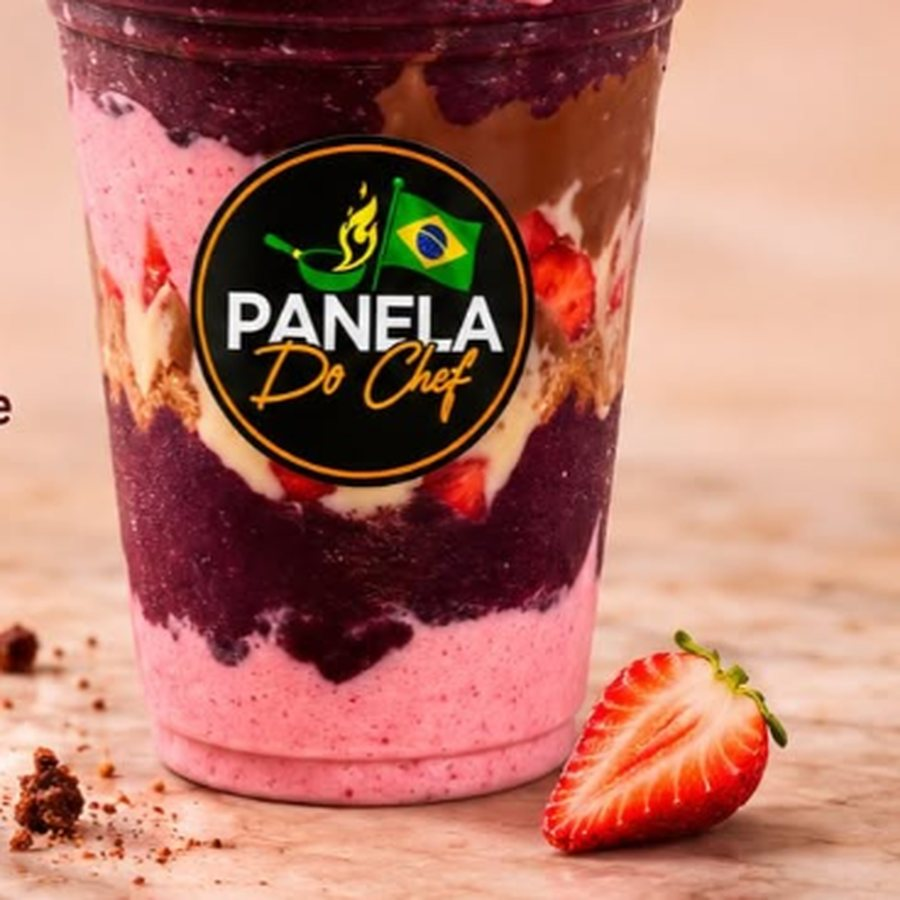
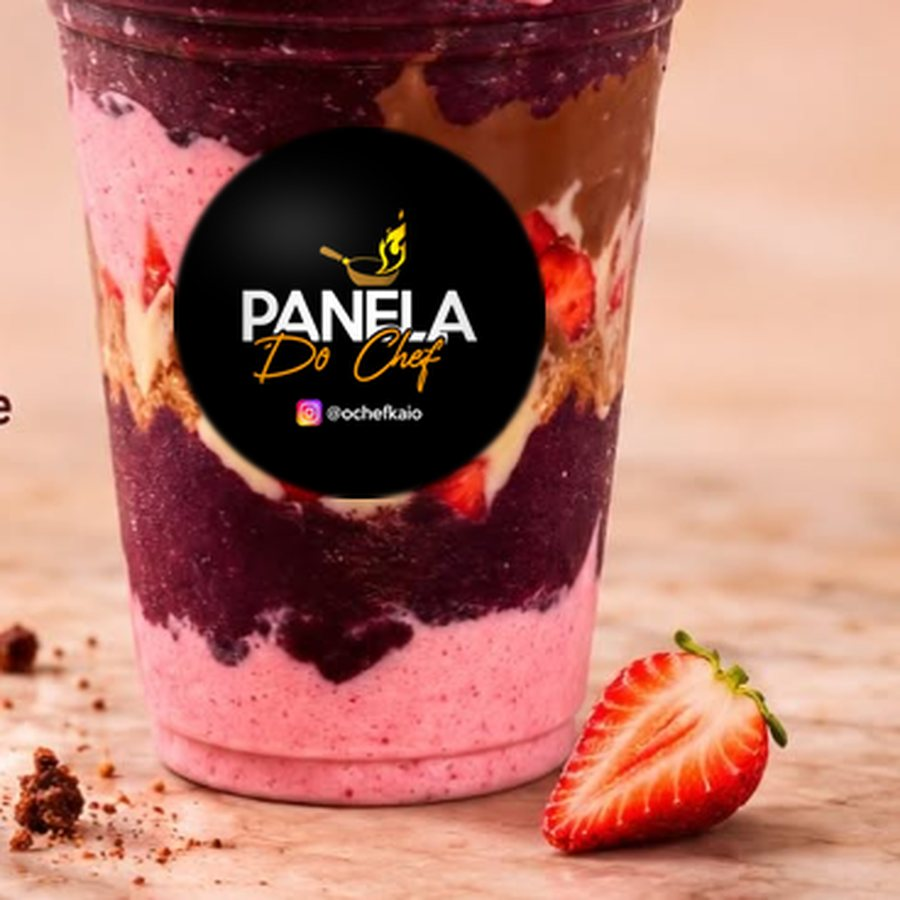
Copos das novidades com o selo atual da marca (sem bandeira)
Claude-Session: https://claude.ai/code/session_01H4JRGunNrdsjAYnKD3Ft2k

Changed region(s): [[0.1867, 0.1244, 0.6222, 0.56]]

diff --git a/lib/fotosPadrao.ts b/lib/fotosPadrao.ts
@@ -24,6 +24,13 @@ function fotoAdicional(nome: string) {
   return k && ADICIONAIS.has(k) ? `/fotos/adicionais/${k}.jpg` : undefined;
 }
 
+/** Fotos trocadas depois de publicadas: o "?v=" faz o navegador baixar de novo. */
+const VERSAO: Record<string, number> = { "acai-choquito-750": 2, "acai-sensacao-maltine": 2 };
+const comVersao = (url: string | undefined) => {
+  const m = url?.match(/^\/fotos\/cardapio\/([a-z0-9-]+)\.jpg$/);
+  return m && VERSAO[m[1]] ? `${url}?v=${VERSAO[m[1]]}` : url;
+};
+
 export function aplicarFotosPadrao(c: Cardapio): Cardapio {
   const semEscolha = !c.itens.some((i) => typeof i.destaque === "boolean");
   const adicionais = Object.fromEntries(
@@ -36,7 +43,7 @@ export function aplicarFotosPadrao(c: Cardapio): Cardapio {
       const id = COM_FOTO.has(i.id) ? i.id : COM_FOTO.has(normal(i.nome)) ? normal(i.nome) : null;
       return {
         ...i,
-        imagem: i.imagem || (id ? `/fotos/cardapio/${id}.jpg` : undefined),
+        imagem: comVersao(i.imagem || (id ? `/fotos/cardapio/${id}.jpg` : undefined)),
         destaque: semEscolha ? DESTAQUES_INICIAIS.includes(i.id) || undefined : i.destaque,
       };
     }),

diff --git a/components/Novidades.tsx b/components/Novidades.tsx
@@ -13,7 +13,7 @@ const L = "/fotos/lancamentos/";
 /** Montagem camada por camada (posições tiradas da foto original, de cima para baixo em %). */
 const CAMADAS: Record<string, { final: string; tom: string; camadas?: { src: string; top: number; alt: number }[] }> = {
   "acai-sensacao-maltine": {
-    final: L + "sensacao-inteiro.webp",
+    final: L + "sensacao-inteiro.webp?v=2",
     tom: "rosa",
     camadas: [
       { src: L + "sensacao-s1.webp", top: 77.35, alt: 22.65 },
@@ -23,7 +23,7 @@ const CAMADAS: Record<string, { final: string; tom: string; camadas?: { src: str
       { src: L + "sensacao-s5.webp", top: 0, alt: 20 },
     ],
   },
-  "acai-choquito-750": { final: L + "choquito-inteiro.webp", tom: "roxo" },
+  "acai-choquito-750": { final: L + "choquito-inteiro.webp?v=2", tom: "roxo" },
 };
 
 export default function Novidades({ itens, abrir }: { itens: Item[]; abrir: (i: Item) => void }) {
